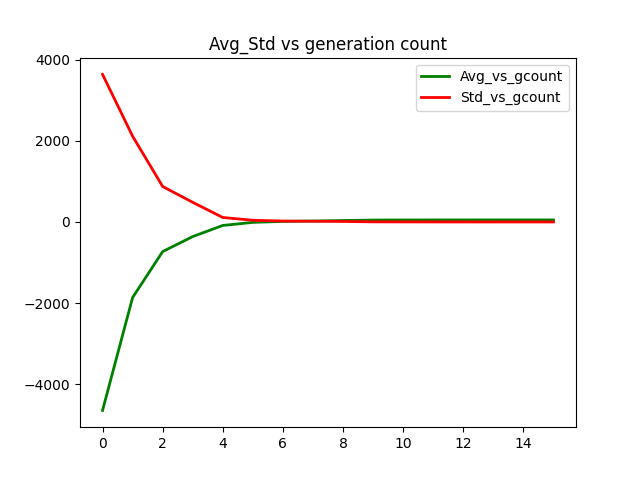
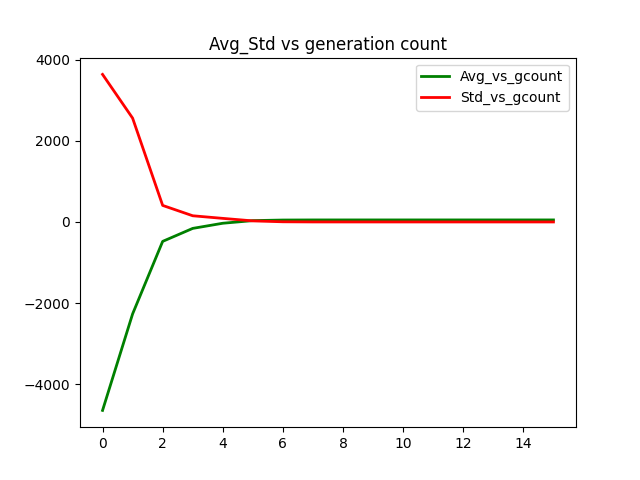
Add files via upload

Changed region(s): [[0.1875, 0.2188, 0.5938, 0.5312], [0.1562, 0.5312, 0.25, 0.8438], [0.1562, 0.1562, 0.1875, 0.2188]]

diff --git a/HW/hw4/EC_hw4_cky.py b/HW/hw4/EC_hw4_cky.py
@@ -142,7 +142,7 @@ class Individual:
         x_list=[]
         for p in self:
             x_list.append(p.x)
-        original_std=np.std(x_list[:10],ddof=1) #Only the first 10 people be calculated into sigma
+        original_std=np.std(x_list,ddof=1) #Only the first 10 people be calculated into sigma
         tau = 1/(len(x_list)**(1/2))
         N = np.random.normal(0,1)
         new_std=original_std*np.exp(tau*N)
@@ -152,11 +152,8 @@ class Individual:
             new_std = -3.0
         else:
             new_std = new_std
-
-        #For new child it'll mutate 
-        self[-1] = Individual(self[-1].x + new_std*N,fitnessFunc(self[-1].x + new_std*N))   #The newest one in the list will get mutated
-        
-        
+        for i in range(len(x_list)):
+            self[i] = Individual((self[i].x)+new_std*N,fitnessFunc((self[i].x)+new_std*N))
         return self
 
 
@@ -198,7 +195,8 @@ def ev1(cfg):
             parents=prng.sample(population,2)       #Randomly choose 2 parents each time while generatie a child
             child=Individual.crossover(parents[0].x,parents[1].x)   #Create 1 children by crossover
             population.append(child)                              #Temporary add that child to population
-            population=Individual.mutate(population)              #Then Mutate the new born child  with previous generation sigma (self-adaptive)
+        
+        population[10:] = Individual.mutate(population[10:])
 
         
         
